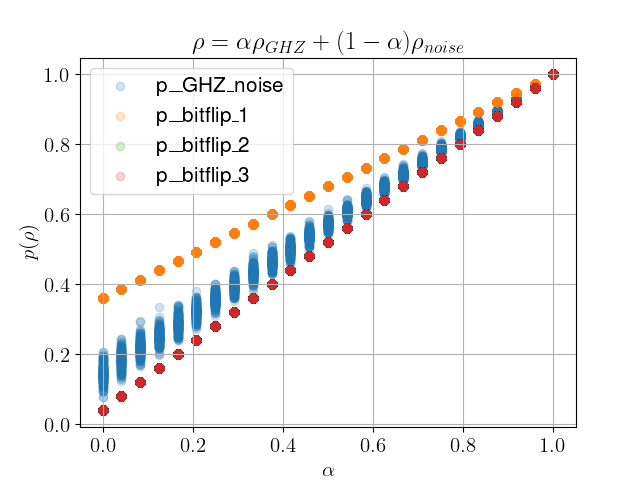
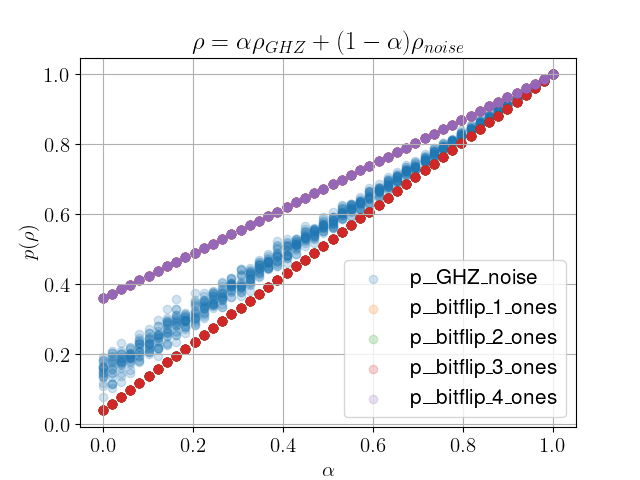
Generalised bitflip for 5 & 6 qubits.

diff --git a/mixed_states/mixed_states.py b/mixed_states/mixed_states.py
@@ -22,11 +22,11 @@ plt.rcParams.update({
 
 plt.close('all')
 
-n_qubits = 4
+n_qubits = 3
 state = 'GHZ'
 # states = ['GHZ', 'W']
 
-n = 50
+n = 10
 n_alpha = 10
 
 PRINT_STATES = 0
@@ -58,7 +58,7 @@ def density_matrix(state, n_qubits, n_ones=0):
         # n_ones = 1
         n_zeros = n_qubits - n_ones
         
-        bits = set([''.join(x) for x in itertools.permutations(n_ones * '1' + n_zeros * '0', 4)])
+        bits = set([''.join(x) for x in itertools.permutations(n_ones * '1' + n_zeros * '0', n_qubits)])
         
         coefficients = np.zeros(2**n_qubits)
         options = []
@@ -66,7 +66,7 @@ def density_matrix(state, n_qubits, n_ones=0):
             options.append(int(b, base=2))
         i = np.random.choice(options)
         coefficients[i] = 1
-    
+    ''' 
     elif state=='bitflip_1':
         coefficients = np.zeros(2**n_qubits)
         # i = np.random.randint(1, 2**n_qubits-1)
@@ -85,7 +85,7 @@ def density_matrix(state, n_qubits, n_ones=0):
         i = np.random.choice([7, 11, 13, 14])
         coefficients[i] = 1
         # coefficients = coefficients/np.linalg.norm(coefficients)
-    
+    '''
     if PRINT_STATES:
         print_state(state, coefficients)
     
@@ -204,6 +204,8 @@ for noise_type in noise_types:
                 data.at[l+1, 'p_' + '_' + noise_type] = p
     else:
         for n_ones in range(1, n_qubits):
+            if PRINT_STATES:
+                print(50*'-')
             print(noise_type, n_ones, 'ones')
             for alpha in a:
                 for i in range(n):
